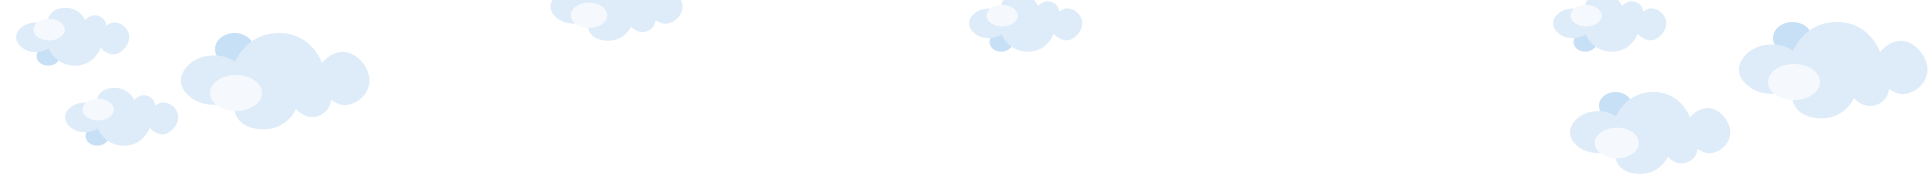
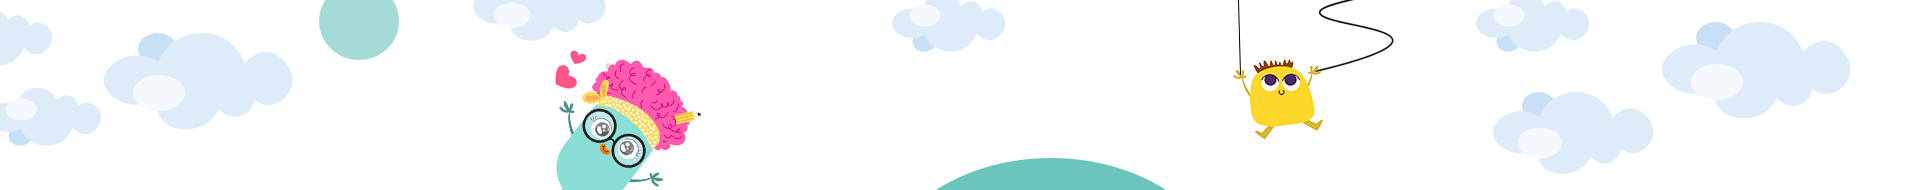
m

diff --git a/resources/views/frontend/layout/head.blade.php b/resources/views/frontend/layout/head.blade.php
@@ -45,7 +45,9 @@
                                              supported by Chrome, Edge, Opera and Firefox */
         }
 
-
+        #kids_middle_container {
+            background-image: url({{url("/")}}/front/images/bg-2.png)!important;
+        }
 
 
     </style>

diff --git a/resources/views/frontend/home.blade.php b/resources/views/frontend/home.blade.php
@@ -74,7 +74,7 @@
     </div>
     </div>
     <!-- .bg-level-1 -->
-    <div id="kids_middle_container">
+    <div id="kids_middle_container" class="kids_middle_container">
         <!-- .content -->
         <br>
         <br>
